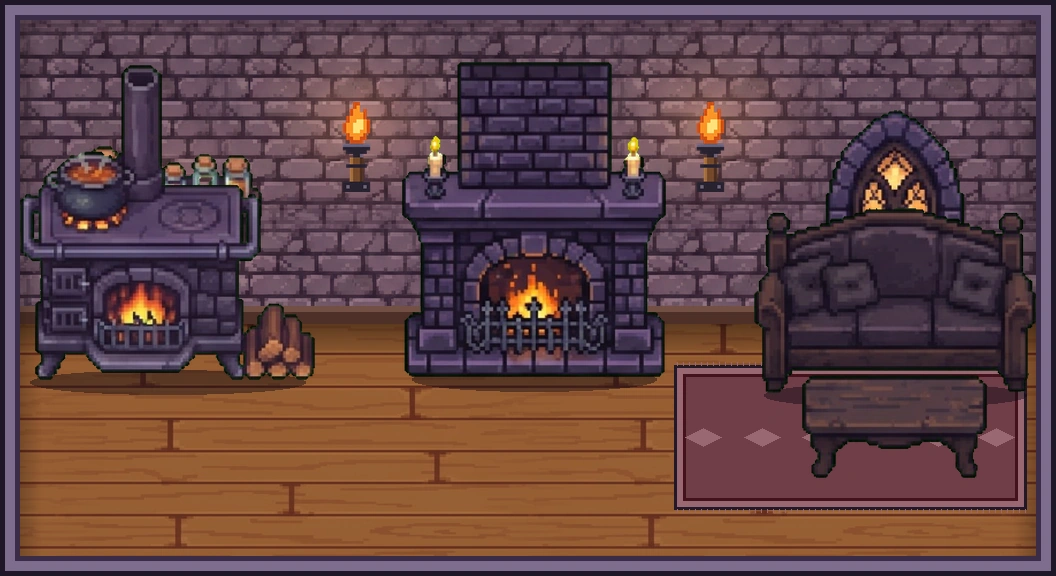
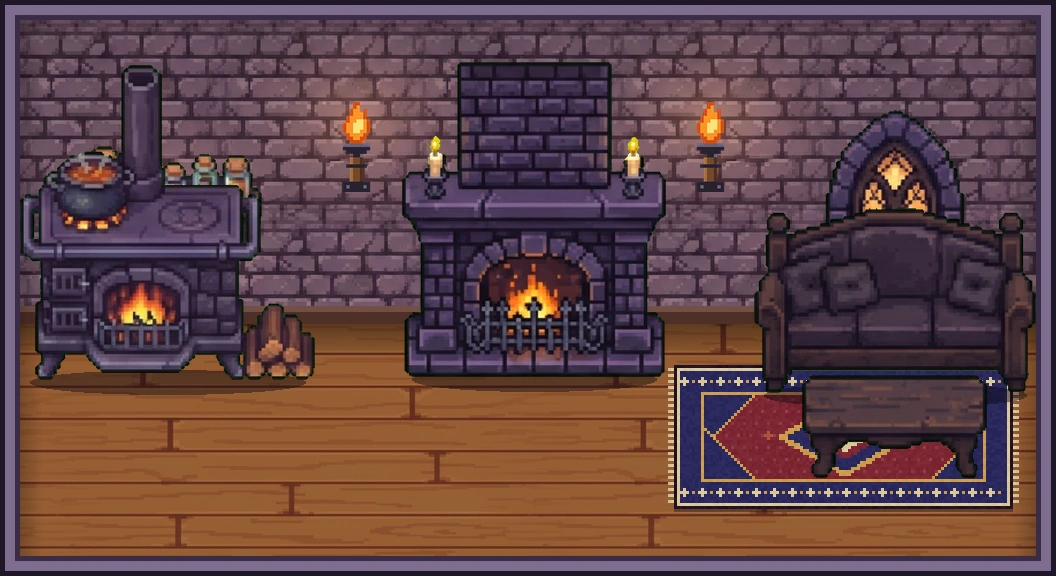
v3.40.2: tappeti persiani antichi in perfetto stato (Rocca e Palazzo)
- componi.py: tappeto_persiano (bordo a fasce con motivo, campo con reticolo, medaglioni a rombo, angoli, frange), palette rosso/blu/verde/reale
- tessere di Rocca e Palazzo rigenerate

Claude-Session: https://claude.ai/code/session_0172XSwwqtzYGYUizC6FgUXo

Changed region(s): [[0.625, 0.625, 1.0, 0.9062]]

diff --git a/js/app.js b/js/app.js
@@ -109,7 +109,7 @@ const LIVELLI_PRODOTTO = ["pieno", "metà", "quasi finito", "finito"];
 /* Un prodotto finito senza confezioni di scorta sparisce dallo scaffale: resta solo nella lista della spesa, e torna quando lo compri. */
 const sulloScaffale = p => !(p.livello === "finito" && !((p.scorta || 0) > 0));
 const XP_SOGLIE = [0, 200, 450, 750, 1100, 1500, 2000];
-const VERSIONE_APP = "3.40.1";
+const VERSIONE_APP = "3.40.2";
 const LV_ANIMALE = 2; /* dal livello 2 il primo animale è un regalo; gli altri si comprano con le monete */
 const SBLOCCHI = ["personaggio base", "il tuo primo animale, in regalo", "cappelli e accessori", "segni particolari", "accessori per animali", "animali fantasy", "oggetti rari"];
 const CAT = {

diff --git a/sw.js b/sw.js
@@ -1,6 +1,6 @@
 /* Our little world · service worker
    Tiene in cache la "scocca" dell'app così si apre subito; i dati arrivano sempre freschi da Supabase. */
-const VERSIONE = "olw-v3.40.1";
+const VERSIONE = "olw-v3.40.2";
 const SCOCCA = ["./", "index.html", "css/style.css", "js/store.js", "js/sprite.js", "js/csv.js", "js/ampolle.js", "js/app.js", "config.js", "manifest.webmanifest", "icons/icon-192.png", "icons/icon-512.png", "img/castello.webp", "img/porta.png", "img/porta-sporco1.png", "img/porta-sporco2.png", "img/porta-sporco3.png"];
 
 self.addEventListener("install", e => {

diff --git a/tools/dimore/modulare/componi.py b/tools/dimore/modulare/componi.py
@@ -378,14 +378,14 @@ if os.environ.get("RIF", "1") == "1":
     DIMORE["castello"]["appoggio"] = True; DIMORE["castello"]["fiaccole"] = 2
     RIEMPI_CASTELLO["luci"] = RIEMPI_CASTELLO["luci"] | {"fiaccola"}
     MALVA, VINO, OLIVA = (108, 78, 112), (112, 62, 72), (84, 78, 104)
-    STANZE_CASTELLO["soggiorno"]["tappeto"] = dict(sotto="soggiorno_1", extra=26, dy=-5, prof=24, col=VINO)
-    STANZE_CASTELLO["camera"]["tappeto"] = dict(sotto="camera_1", extra=20, dy=-6, prof=28, col=MALVA)
-    STANZE_CASTELLO["ingresso"]["tappeto"] = dict(sotto="ingresso_1", extra=-4, dy=3, prof=15, col=MALVA)
-    STANZE_CASTELLO["studio"]["tappeto"] = dict(sotto=("studio_1", "studio_2"), extra=14, dy=-4, prof=22, col=OLIVA)
-    STANZE_CASTELLO["bagno"]["tappeto"] = dict(sotto="bagno_1", extra=-10, dy=8, prof=12, col=MALVA)
-    STANZE_CASTELLO["cucina_soggiorno"]["tappeto"] = dict(sotto="soggiorno_1", extra=26, dy=-5, prof=24, col=VINO)
+    STANZE_CASTELLO["soggiorno"]["tappeto"] = dict(sotto="soggiorno_1", extra=26, dy=-5, prof=24, pal="rosso")
+    STANZE_CASTELLO["camera"]["tappeto"] = dict(sotto="camera_1", extra=20, dy=-6, prof=28, pal="blu")
+    STANZE_CASTELLO["ingresso"]["tappeto"] = dict(sotto="ingresso_1", extra=-4, dy=3, prof=15, pal="rosso")
+    STANZE_CASTELLO["studio"]["tappeto"] = dict(sotto=("studio_1", "studio_2"), extra=14, dy=-4, prof=22, pal="verde")
+    STANZE_CASTELLO["bagno"]["tappeto"] = dict(sotto="bagno_1", extra=-10, dy=8, prof=12, pal="blu")
+    STANZE_CASTELLO["cucina_soggiorno"]["tappeto"] = dict(sotto="soggiorno_1", extra=26, dy=-5, prof=24, pal="rosso")
     # corridoio: niente mobili, solo un tappeto lungo e due fiaccole
-    STANZE_CASTELLO["corridoio"].update(muro_riga=38, pav_mobili=[], appesi=[], vuota=True, fiaccole_bordi=True, fiaccola_cima=9, tappeto=dict(y0=4, rel=True, fondo=5, larg=22, lungo=True, col=VINO, oro=(200, 160, 120)))
+    STANZE_CASTELLO["corridoio"].update(muro_riga=38, pav_mobili=[], appesi=[], vuota=True, fiaccole_bordi=True, fiaccola_cima=9, tappeto=dict(y0=4, rel=True, fondo=5, larg=22, lungo=True, pal="rosso"))
     # balcone: vasi e lanterna lungo la balaustra
     STANZE_CASTELLO["balcone"] = dict(STANZE_CASTELLO["balcone"], pav_g=CIOTTOLI, pav_mobili=[("balcone_1", 84, 3), ("balcone_7", 84, 5), ("balcone_2", 84, 2)], appesi=[])
     STANZE_CASTELLO["terrazzo"] = dict(STANZE_CASTELLO["terrazzo"], pav_g=CIOTTOLI, appesi=[])
@@ -393,13 +393,13 @@ if os.environ.get("RIF", "1") == "1":
     # Palazzo d'Argentaluna: mobili alle pareti, tappeti blu e oro piatti, candele a muro; niente lampioni in mezzo alle stanze
     DIMORE["reggia"]["appoggio"] = True; DIMORE["reggia"]["fiaccola_pezzo"] = "corridoio_5"
     BLU, ORO = (42, 72, 150), (226, 186, 98)
-    STANZE_REGGIA["soggiorno"]["tappeto"] = dict(sotto="soggiorno_1", extra=26, dy=-6, prof=17, col=BLU, oro=ORO)
-    STANZE_REGGIA["cucina_soggiorno"]["tappeto"] = dict(sotto="soggiorno_1", extra=26, dy=-6, prof=17, col=BLU, oro=ORO)
-    STANZE_REGGIA["camera"]["tappeto"] = dict(sotto="camera_1", extra=20, dy=-6, prof=17, col=BLU, oro=ORO)
-    STANZE_REGGIA["ingresso"]["tappeto"] = dict(sotto="ingresso_1", extra=-8, dy=3, prof=13, col=BLU, oro=ORO)
-    STANZE_REGGIA["studio"]["tappeto"] = dict(sotto=("studio_1", "studio_2"), extra=14, dy=-5, prof=17, col=BLU, oro=ORO)
+    STANZE_REGGIA["soggiorno"]["tappeto"] = dict(sotto="soggiorno_1", extra=26, dy=-6, prof=17, pal="reale")
+    STANZE_REGGIA["cucina_soggiorno"]["tappeto"] = dict(sotto="soggiorno_1", extra=26, dy=-6, prof=17, pal="reale")
+    STANZE_REGGIA["camera"]["tappeto"] = dict(sotto="camera_1", extra=20, dy=-6, prof=17, pal="reale")
+    STANZE_REGGIA["ingresso"]["tappeto"] = dict(sotto="ingresso_1", extra=-8, dy=3, prof=13, pal="reale")
+    STANZE_REGGIA["studio"]["tappeto"] = dict(sotto=("studio_1", "studio_2"), extra=14, dy=-5, prof=17, pal="reale")
     STANZE_REGGIA["corridoio"].update(muro_riga=40, pav_mobili=[], appesi=[], vuota=True, fiaccole=2, fiaccole_bordi=True, fiaccola_cima=8,
-                                      tappeto=dict(y0=4, rel=True, fondo=-4, larg=22, lungo=True, col=BLU, oro=ORO))
+                                      tappeto=dict(y0=4, rel=True, fondo=-4, larg=22, lungo=True, pal="reale"))
     STANZE_REGGIA["giardino"]["libero"] = True
     RIEMPI_REGGIA["riserva_pav"] = ["balcone_1", "corridoio_3"]
 
@@ -490,6 +490,87 @@ def tappeto_piatto(img, cx, y0, w, prof, col=(108, 78, 112), oro=None, lungo=Fal
             d.polygon([(mx - 2 * r, cy), (mx, cy - r), (mx + 2 * r, cy), (mx, cy + r)], fill=mot + (255,))
     for xx in range(x0 + g, x1, 2 * g):                  # frange sui lati corti
         d.line((xx, ya - g, xx, ya), fill=chiaro + (255,), width=1); d.line((xx, yb, xx, yb + g), fill=chiaro + (255,), width=1)
+
+
+# Tappeti persiani: antichi ma in perfetto stato. Disegnati a "mezzo pixel del disegno" (unità U) e poi ingranditi senza sfumature,
+# così hanno la stessa grana dei mobili. Bordo a fasce con motivo ripetuto, campo con reticolo, medaglioni a rombo, angoli e frange.
+PALETTE_TAPPETI = {
+ # campo, bordo, avorio, oro, contorno, accento
+ "rosso": dict(campo=(124, 38, 50), bordo=(42, 40, 92), avorio=(218, 200, 156), oro=(204, 156, 76), out=(34, 18, 32), acc=(176, 84, 60)),
+ "blu": dict(campo=(40, 44, 102), bordo=(118, 36, 52), avorio=(218, 200, 156), oro=(204, 156, 76), out=(26, 18, 40), acc=(70, 120, 150)),
+ "verde": dict(campo=(34, 86, 82), bordo=(108, 36, 56), avorio=(218, 200, 156), oro=(204, 156, 76), out=(20, 28, 34), acc=(176, 84, 60)),
+ "reale": dict(campo=(30, 56, 128), bordo=(124, 34, 52), avorio=(238, 226, 192), oro=(228, 186, 98), out=(18, 24, 58), acc=(96, 150, 206)),
+}
+
+
+def tappeto_persiano(img, cx, y0, w, prof, pal, lungo=False):
+    """Tappeto persiano steso a terra. cx, y0, w, prof in pixel del disegno; lungo = tappeto lungo (asse lungo verticale)."""
+    P = PALETTE_TAPPETI[pal]; U = max(1, Q // 2); k = 2                       # k unità per pixel del disegno
+    a_, b_ = max(cx - w / 2, 5), min(cx + w / 2, img.width / Q - 5)            # mai oltre le pareti della stanza
+    L, T = round((prof if lungo else b_ - a_) * k), round(((b_ - a_) if lungo else prof) * k)      # lunghezza e spessore (asse lungo = orizzontale)
+    fr = 2                                                                      # frange sui lati corti
+    bw = max(2, round(T / 7)); n0 = 3 + bw                                      # contorno, avorio, fascia, oro
+    A = np.zeros((T + 1, L, 4), np.uint8)                                       # una riga in più: ombra sul pavimento
+    rng = np.random.RandomState(7); col = lambda c, d=0: (*[int(np.clip(v + d, 0, 255)) for v in c], 255)
+    corpo = (slice(0, T), slice(fr, L - fr))
+    A[corpo] = col(P["out"])
+    def box(m, c):                                                             # m = margine dal bordo del corpo
+        if T - 2 * m > 0 and L - 2 * fr - 2 * m > 0: A[m:T - m, fr + m:L - fr - m] = col(c)
+    box(1, P["avorio"]); box(2, P["bordo"]); box(2 + bw, P["oro"]); box(3 + bw, P["campo"])
+    fx0, fx1, fy0, fy1 = fr + n0, L - fr - n0, n0, T - n0; FT = fy1 - fy0        # campo
+    # fascia: motivo ripetuto, rombi avorio e puntini oro
+    cy = 2 + bw // 2 if bw >= 3 else 2
+    for x in range(fr + 3, L - fr - 3, 6):
+        for dx, dy, c in ((0, 0, P["avorio"]), (-1, 0, P["avorio"]), (1, 0, P["avorio"]), (0, -1, P["avorio"]), (0, 1, P["avorio"])):
+            for yy in (cy, T - 1 - cy):
+                if 0 <= yy + dy < T: A[yy + dy, x + dx] = col(c)
+        for yy in (cy, T - 1 - cy):
+            if x + 3 < L - fr - 3: A[yy, x + 3] = col(P["oro"])
+    # campo: reticolo di puntini chiari
+    if FT > 2 and fx1 > fx0:
+        for yy in range(fy0 + 1, fy1 - 1, 4):
+            for xx in range(fx0 + 1 + (2 if (yy // 4) % 2 else 0), fx1 - 1, 4): A[yy, xx] = col(P["campo"], 20)
+        # medaglioni a rombo: contorno oro, riempimento bordo, rombo interno campo, centro avorio
+        ay = (FT - 1) / 2; ax = ay * 1.7; cyy = (fy0 + fy1 - 1) / 2; lung = fx1 - fx0
+        nm = max(1, int(round(lung / (ax * 2.9)))); passo = lung / nm
+        for m in range(nm):
+            cxx = fx0 + passo * (m + .5)
+            for yy in range(fy0, fy1):
+                for xx in range(int(cxx - ax) - 1, int(cxx + ax) + 2):
+                    if not (fx0 <= xx < fx1): continue
+                    d = abs(xx - cxx) / ax + abs(yy - cyy) / ay
+                    if d <= 1.0: c = P["oro"]
+                    else: continue
+                    if d <= .86: c = P["bordo"]
+                    if d <= .56: c = P["campo"]
+                    if d <= .36: c = P["avorio"]
+                    if d <= .16: c = P["bordo"]
+                    A[yy, xx] = col(c)
+            # cuscinetti: piccoli rombi accento ai due lati del medaglione
+            for sgn in (-1, 1):
+                px = int(round(cxx + sgn * (ax + 3)))
+                if fx0 + 1 < px < fx1 - 2:
+                    for dx, dy in ((0, 0), (-1, 0), (1, 0), (0, -1), (0, 1)):
+                        if fy0 <= int(cyy) + dy < fy1: A[int(cyy) + dy, px + dx] = col(P["acc"] if (m + sgn) % 2 else P["avorio"])
+        # angoli: triangoli di bordo con filo oro
+        sz = max(3, int(FT * .62))
+        for fx, fy, sx_, sy_ in ((fx0, fy0, 1, 1), (fx1 - 1, fy0, -1, 1), (fx0, fy1 - 1, 1, -1), (fx1 - 1, fy1 - 1, -1, -1)):
+            for dy in range(sz):
+                for dx in range(sz - dy):
+                    xx, yy = fx + sx_ * dx, fy + sy_ * dy
+                    if fx0 <= xx < fx1 and fy0 <= yy < fy1: A[yy, xx] = col(P["oro"] if dx + dy == sz - 1 else P["bordo"])
+    # grana del tessuto: variazione minima, uguale per ogni tappeto
+    ruv = rng.randint(-5, 6, size=(T + 1, L))
+    corpo_mask = np.zeros((T + 1, L), bool); corpo_mask[corpo] = True
+    for c in range(3): A[..., c] = np.where(corpo_mask, np.clip(A[..., c].astype(int) + ruv, 0, 255), A[..., c])
+    # frange: file di fili avorio ai due lati corti, e ombra sul pavimento lungo il lato inferiore
+    for yy in range(1, T - 1):
+        if yy % 2 == 1:
+            for xx in list(range(0, fr)) + list(range(L - fr, L)): A[yy, xx] = col(P["avorio"], -10 if xx in (0, L - 1) else 0)
+    A[T, fr:L - fr] = (10, 6, 16, 90)
+    if lungo: A = np.ascontiguousarray(np.rot90(A, -1))                        # asse lungo in verticale
+    im = Image.fromarray(A, "RGBA").resize((A.shape[1] * U, A.shape[0] * U), Image.NEAREST)
+    img.paste(im, (S(a_) - (fr * U if not lungo else 0), S(y0) - (fr * U if lungo else 0)), im)
 
 
 def stanza(nome, W):
@@ -595,11 +676,13 @@ def stanza(nome, W):
         if tp.get("sotto") is not None:
             if tp["sotto"] in pos:
                 lw = [w for k, cx, b, w in lay if k == tp["sotto"]][0]; cx, b = pos[tp["sotto"]]
-                tappeto_piatto(img, cx, b + tp.get("dy", -4), lw + tp.get("extra", 12), tp.get("prof", 20), tp.get("col", (108, 78, 112)), tp.get("oro"))
+                if tp.get("pal"): tappeto_persiano(img, cx, b + tp.get("dy", -4), lw + tp.get("extra", 12), tp.get("prof", 20), tp["pal"])
+                else: tappeto_piatto(img, cx, b + tp.get("dy", -4), lw + tp.get("extra", 12), tp.get("prof", 20), tp.get("col", (108, 78, 112)), tp.get("oro"))
         else:
             y0 = MURO + tp["y0"] if tp.get("rel") else tp["y0"]            # rel: la riga è misurata dal muro (MURO cambia con la dimora)
             prof = H - y0 - tp.get("fondo", 2) if tp.get("rel") else tp.get("prof", 22)
-            tappeto_piatto(img, W * tp.get("cx", .5), y0, tp.get("larg") or W - tp.get("meno", 14), prof, tp.get("col", (108, 78, 112)), tp.get("oro"), tp.get("lungo", False))
+            if tp.get("pal"): tappeto_persiano(img, W * tp.get("cx", .5), y0, tp.get("larg") or W - tp.get("meno", 14), prof, tp["pal"], tp.get("lungo", False))
+            else: tappeto_piatto(img, W * tp.get("cx", .5), y0, tp.get("larg") or W - tp.get("meno", 14), prof, tp.get("col", (108, 78, 112)), tp.get("oro"), tp.get("lungo", False))
     for p, cx, cima in appesi + deco: appendi(img, pezzo(p), cx, cima)
     for p, cx, b in sorted(extra, key=lambda e: e[2]): appoggia(img, pezzo(p), cx, b)
     for k, cx, b, _ in lay:
